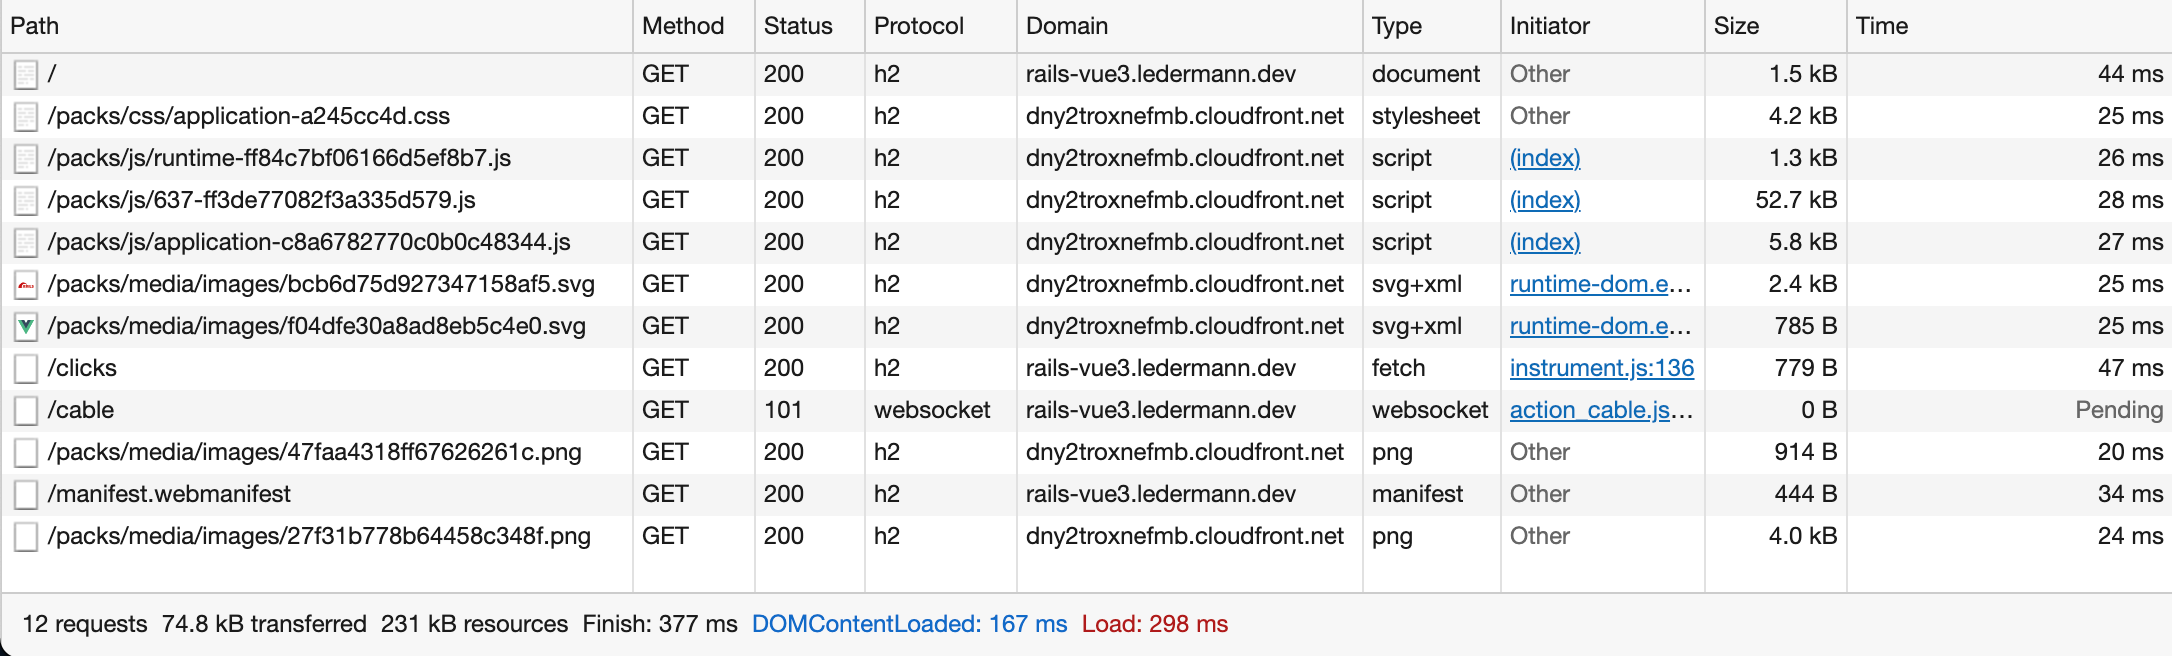
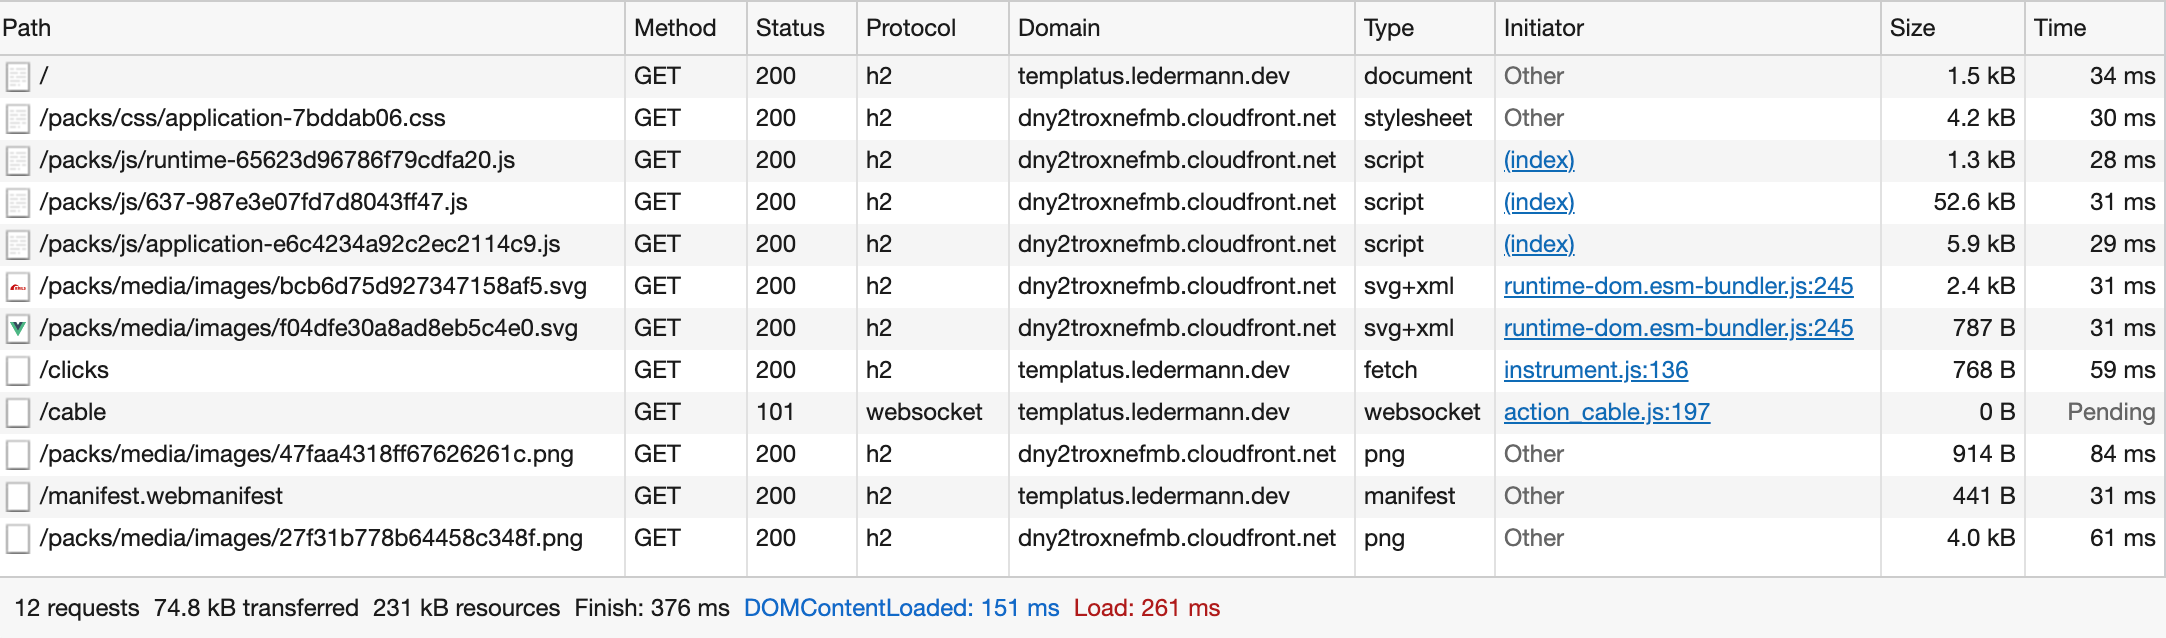
Rename project to "Templatus"

diff --git a/app/packs/src/pages/Home.vue b/app/packs/src/pages/Home.vue
@@ -1,10 +1,10 @@
 <template>
   <div class="flex justify-between flex-wrap">
     <div class="w-full md:w-1/2">
-      <page-title>Hello {{ name }}!</page-title>
+      <page-title>Hello, {{ name }}!</page-title>
 
-      <p class="mt-6 text-xl max-w-3xl">
-        This is an opinionated template for web applications with
+      <p class="mt-6 text-xl max-w-4xl">
+        Templatus is an opinionated template for web applications with
         <b>Ruby on Rails</b> and <b>Vue.js</b>
       </p>
 
@@ -13,7 +13,7 @@
           class="underline"
           target="_blank"
           rel="noopener"
-          href="https://github.com/ledermann/rails-vue3"
+          href="https://github.com/ledermann/templatus"
           >Source on GitHub</a
         >
       </p>

diff --git a/app/packs/src/pages/About.vue b/app/packs/src/pages/About.vue
@@ -1,9 +1,9 @@
 <template>
   <page-title>About</page-title>
 
-  <div class="mt-6 mb-20 text-xl max-w-3xl">
+  <div class="mt-6 mb-20 text-xl max-w-4xl">
     <p>
-      This is an opinionated template for web applications with
+      Templatus is an opinionated template for web applications with
       <b>Ruby on Rails</b> and <b>Vue.js</b>
     </p>
 

diff --git a/spec/packs/src/pages/Home.test.ts b/spec/packs/src/pages/Home.test.ts
@@ -37,7 +37,7 @@ describe('Home', () => {
 
   test('renders name', () => {
     const title = wrapper.find('h1')?.element?.textContent?.trim();
-    expect(title).toEqual('Hello World!');
+    expect(title).toEqual('Hello, World!');
   });
 
   test('matches snapshot', () => {

diff --git a/jest.config.js b/jest.config.js
@@ -1,6 +1,6 @@
 module.exports = {
   verbose: true,
-  testURL: 'https://rails-vue3.test/',
+  testURL: 'https://templatus.test/',
   roots: ['spec/packs'],
   moduleDirectories: ['node_modules', 'app/packs'],
   moduleNameMapper: {

diff --git a/app/packs/src/router.ts b/app/packs/src/router.ts
@@ -9,7 +9,7 @@ const routes: Array<RouteRecordRaw> = [
     name: 'Home',
     component: Home,
     props: {
-      name: 'Vue',
+      name: 'Templatus',
     },
   },
   {

diff --git a/config/application.rb b/config/application.rb
@@ -18,7 +18,7 @@ require 'rails/test_unit/railtie'
 # you've limited to :test, :development, or :production.
 Bundler.require(*Rails.groups)
 
-module RailsVue3
+module Templatus
   class Application < Rails::Application
     # Initialize configuration defaults for originally generated Rails version.
     config.load_defaults 6.1
@@ -32,7 +32,7 @@ module RailsVue3
     # config.eager_load_paths << Rails.root.join("extras")
 
     config.time_zone = ENV.fetch('TIME_ZONE', 'Berlin')
-    config.x.app_host = ENV.fetch('APP_HOST', 'rails-vue3.test')
+    config.x.app_host = ENV.fetch('APP_HOST', 'templatus.test')
 
     config.x.git.commit_sha =
       (ENV.fetch('COMMIT_SHA') { `git rev-parse HEAD` }).first(7)

diff --git a/config/environments/production.rb b/config/environments/production.rb
@@ -66,7 +66,7 @@ Rails.application.configure do
 
   # Use a real queuing backend for Active Job (and separate queues per environment).
   # config.active_job.queue_adapter     = :resque
-  # config.active_job.queue_name_prefix = "rails_vue3_production"
+  # config.active_job.queue_name_prefix = "templatus_production"
 
   config.action_mailer.perform_caching = false
 

diff --git a/config/initializers/session_store.rb b/config/initializers/session_store.rb
@@ -1,3 +1,3 @@
 Rails.application.config.session_store :cookie_store,
-                                       key: '_rails_vue3_session',
+                                       key: '_templatus_session',
                                        secure: Rails.env.production?

diff --git a/spec/system/vue_spec.rb b/spec/system/vue_spec.rb
@@ -1,7 +1,7 @@
 describe 'Vue', js: true do
   it 'renders successfully' do
     visit '/'
-    expect(page).to have_css('h1', text: 'Hello Vue!')
+    expect(page).to have_css('h1', text: 'Hello, Templatus!')
 
     click_on 'Click me!'
     click_on 'Click me!'

diff --git a/README.md b/README.md
@@ -1,8 +1,8 @@
 # README
 
-This is an opinionated template for web applications with Ruby on Rails using Vue.js on the frontend. It simplifies the process of setting up a new application while following best practices.
+Templatus is an opinionated template for web applications with Ruby on Rails using Vue.js on the frontend. It simplifies the process of setting up a new application while following best practices.
 
-Live demo available at https://rails-vue3.ledermann.dev
+Live demo available at https://templatus.ledermann.dev
 
 ## Technology stack
 
@@ -60,7 +60,13 @@ Small footprint: Only 75Kb transfer in total for the first visit
 
 ![Secure headers](secure-headers.png)
 
-https://securityheaders.com/?q=rails-vue3.ledermann.dev&followRedirects=on
+https://securityheaders.com/?q=templatus.ledermann.dev&followRedirects=on
+
+### Mozilla Observatory
+
+![Mozilla Observatory](mozilla-observatory.png)
+
+https://observatory.mozilla.org/analyze/templatus.ledermann.dev
 
 ### JavaScript size
 
@@ -69,7 +75,7 @@ https://securityheaders.com/?q=rails-vue3.ledermann.dev&followRedirects=on
 ```
 RAILS_ENV=production bin/rails webpacker:clobber webpacker:compile
 Compiling...
-Compiled all packs in /Users/ledermann/Projects/rails-vue3/public/packs
+Compiled all packs in /Users/ledermann/Projects/templatus/public/packs
 
 warn - You have enabled the JIT engine which is currently in preview.
 warn - Preview features are not covered by semver, may introduce breaking changes, and can change at any time.
@@ -110,7 +116,7 @@ webpack 5.38.1 compiled successfully in 8893 ms
 About 2 minutes (on a six-year old Intel iMac)
 
 ```
-~/Projects/rails-vue3 on main > docker build .
+~/Projects/templatus on main > docker build .
 [+] Building 120.8s (22/22) FINISHED
 ```
 
@@ -120,7 +126,7 @@ About 2 minutes (on a six-year old Intel iMac)
 
 ```
 REPOSITORY                     TAG       IMAGE ID       CREATED       SIZE
-ghcr.io/ledermann/rails-vue3   latest    7f5a3f2b63d6   2 hours ago   107MB
+ghcr.io/ledermann/templatus   latest    7f5a3f2b63d6   2 hours ago   107MB
 ```
 
 ## Installation
@@ -128,8 +134,8 @@ ghcr.io/ledermann/rails-vue3   latest    7f5a3f2b63d6   2 hours ago   107MB
 1. Clone the repo locally:
 
 ```bash
-git clone git@github.com:ledermann/rails-vue3.git
-cd rails-vue3
+git clone git@github.com:ledermann/templatus.git
+cd templatus
 ```
 
 2. Install PostgreSQL, Redis and puma-dev (if not already present). On a Mac with HomeBrew, run this to install from the `Brewfile`:
@@ -147,7 +153,7 @@ puma-dev link
 
 # Use https in development and load webpack from subdomain
 # https://github.com/puma/puma-dev#webpack-dev-server
-echo 3035 > ~/.puma-dev/webpack.rails-vue3
+echo 3035 > ~/.puma-dev/webpack.templatus
 ```
 
 4. Setup the application to install gems and NPM packages and create the database:
@@ -162,7 +168,7 @@ bin/setup
 foreman start
 ```
 
-Then you can open https://rails-vue3.test in your browser.
+Then you can open https://templatus.test in your browser.
 
 ## Test
 
